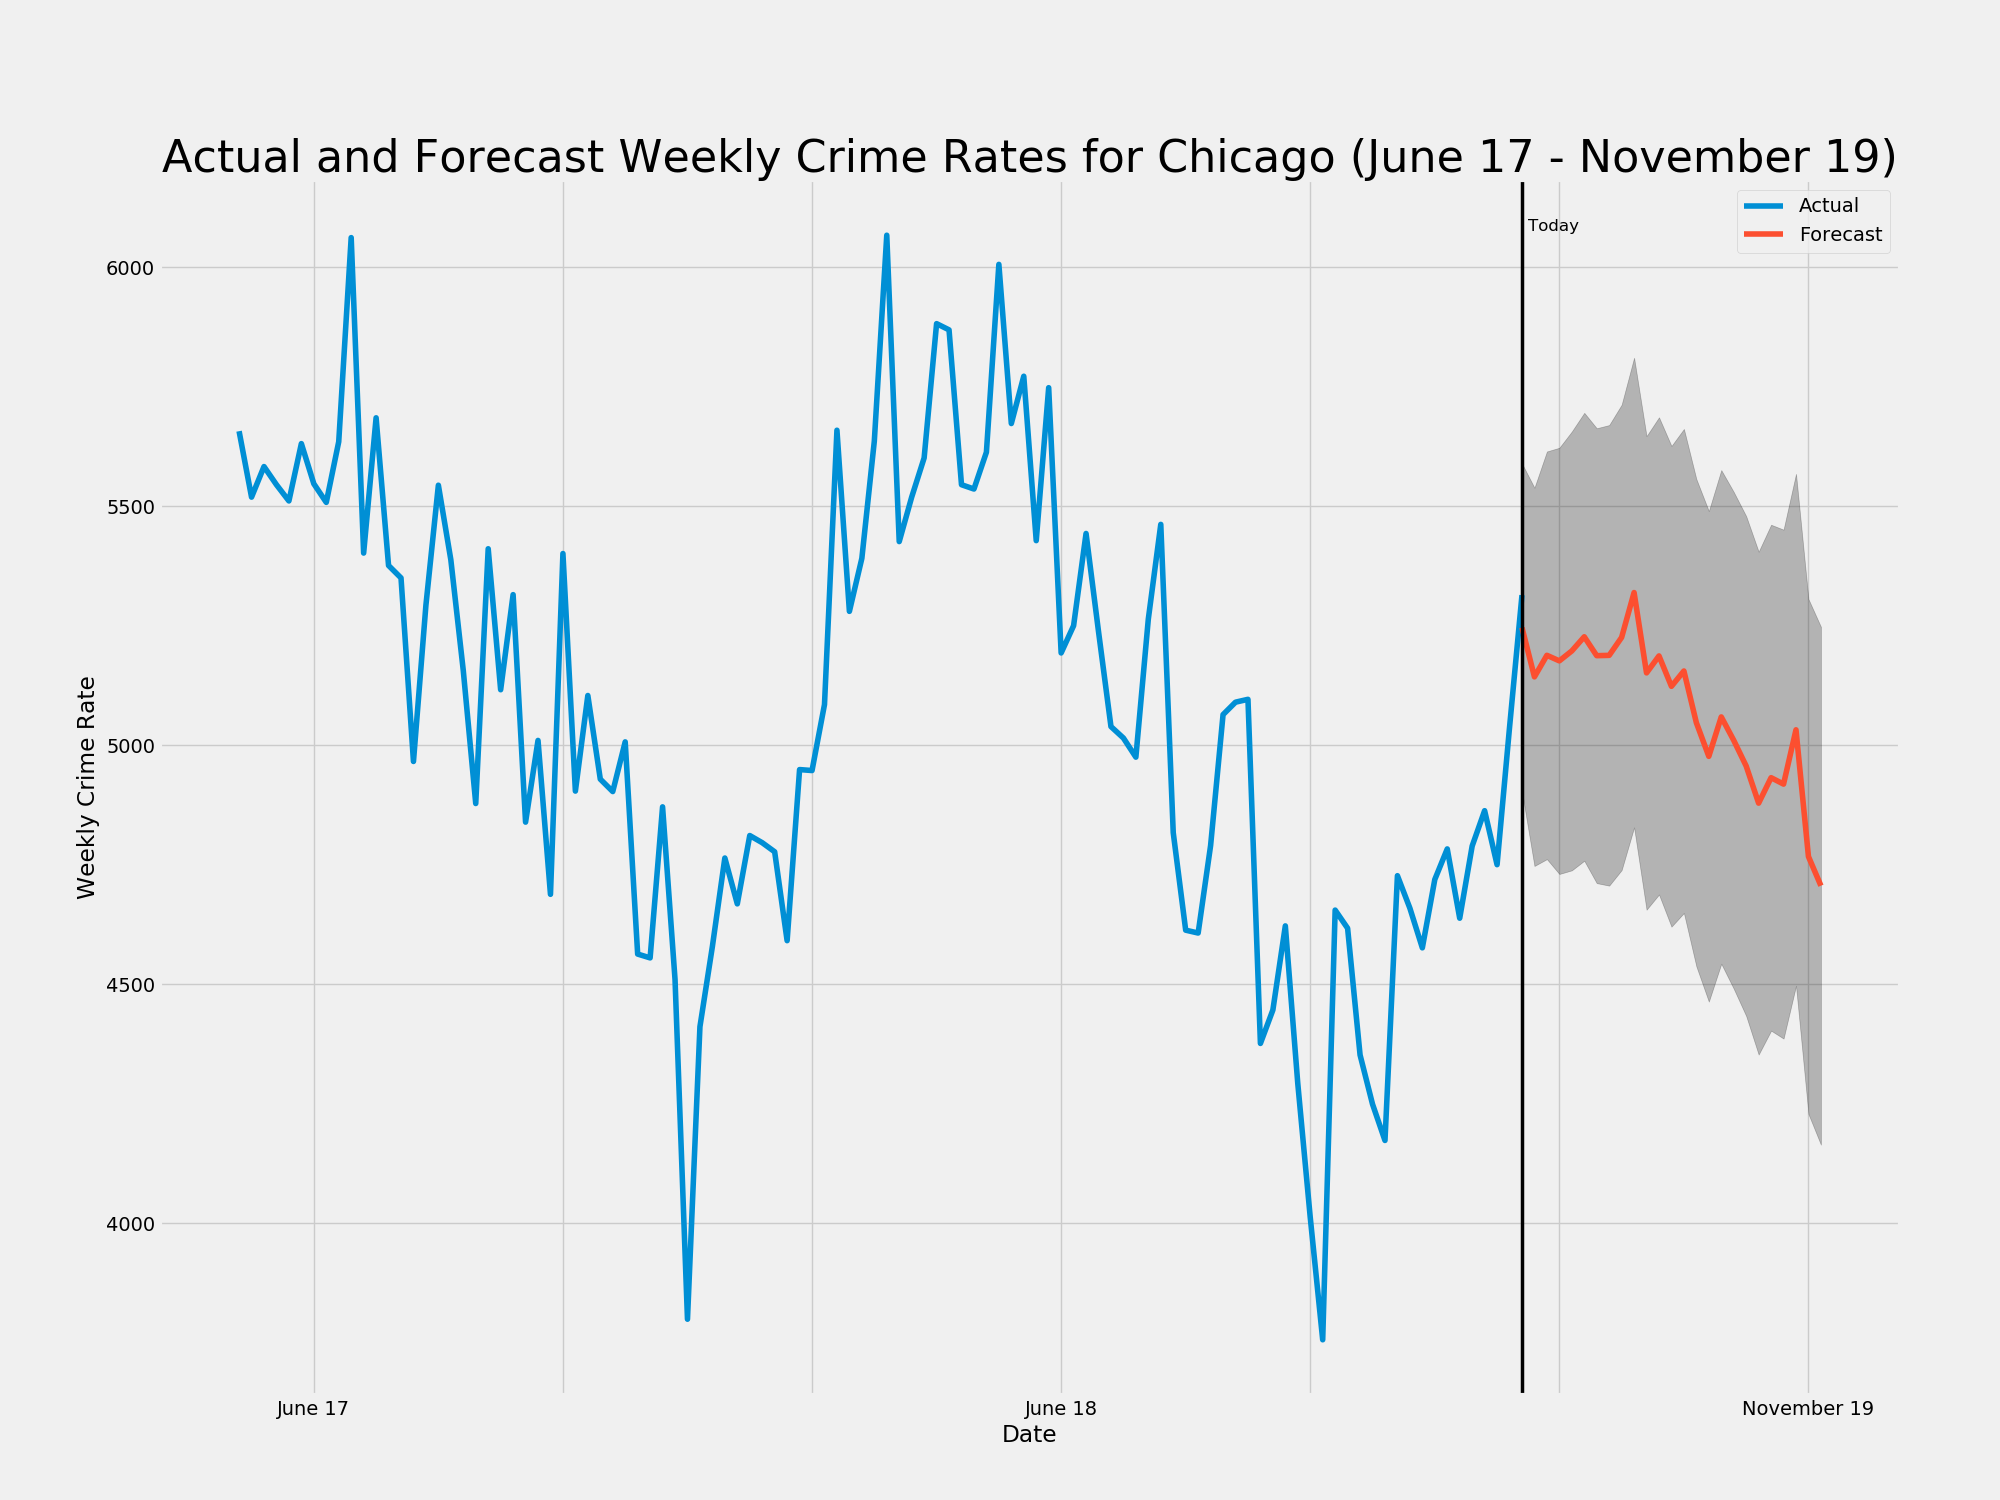
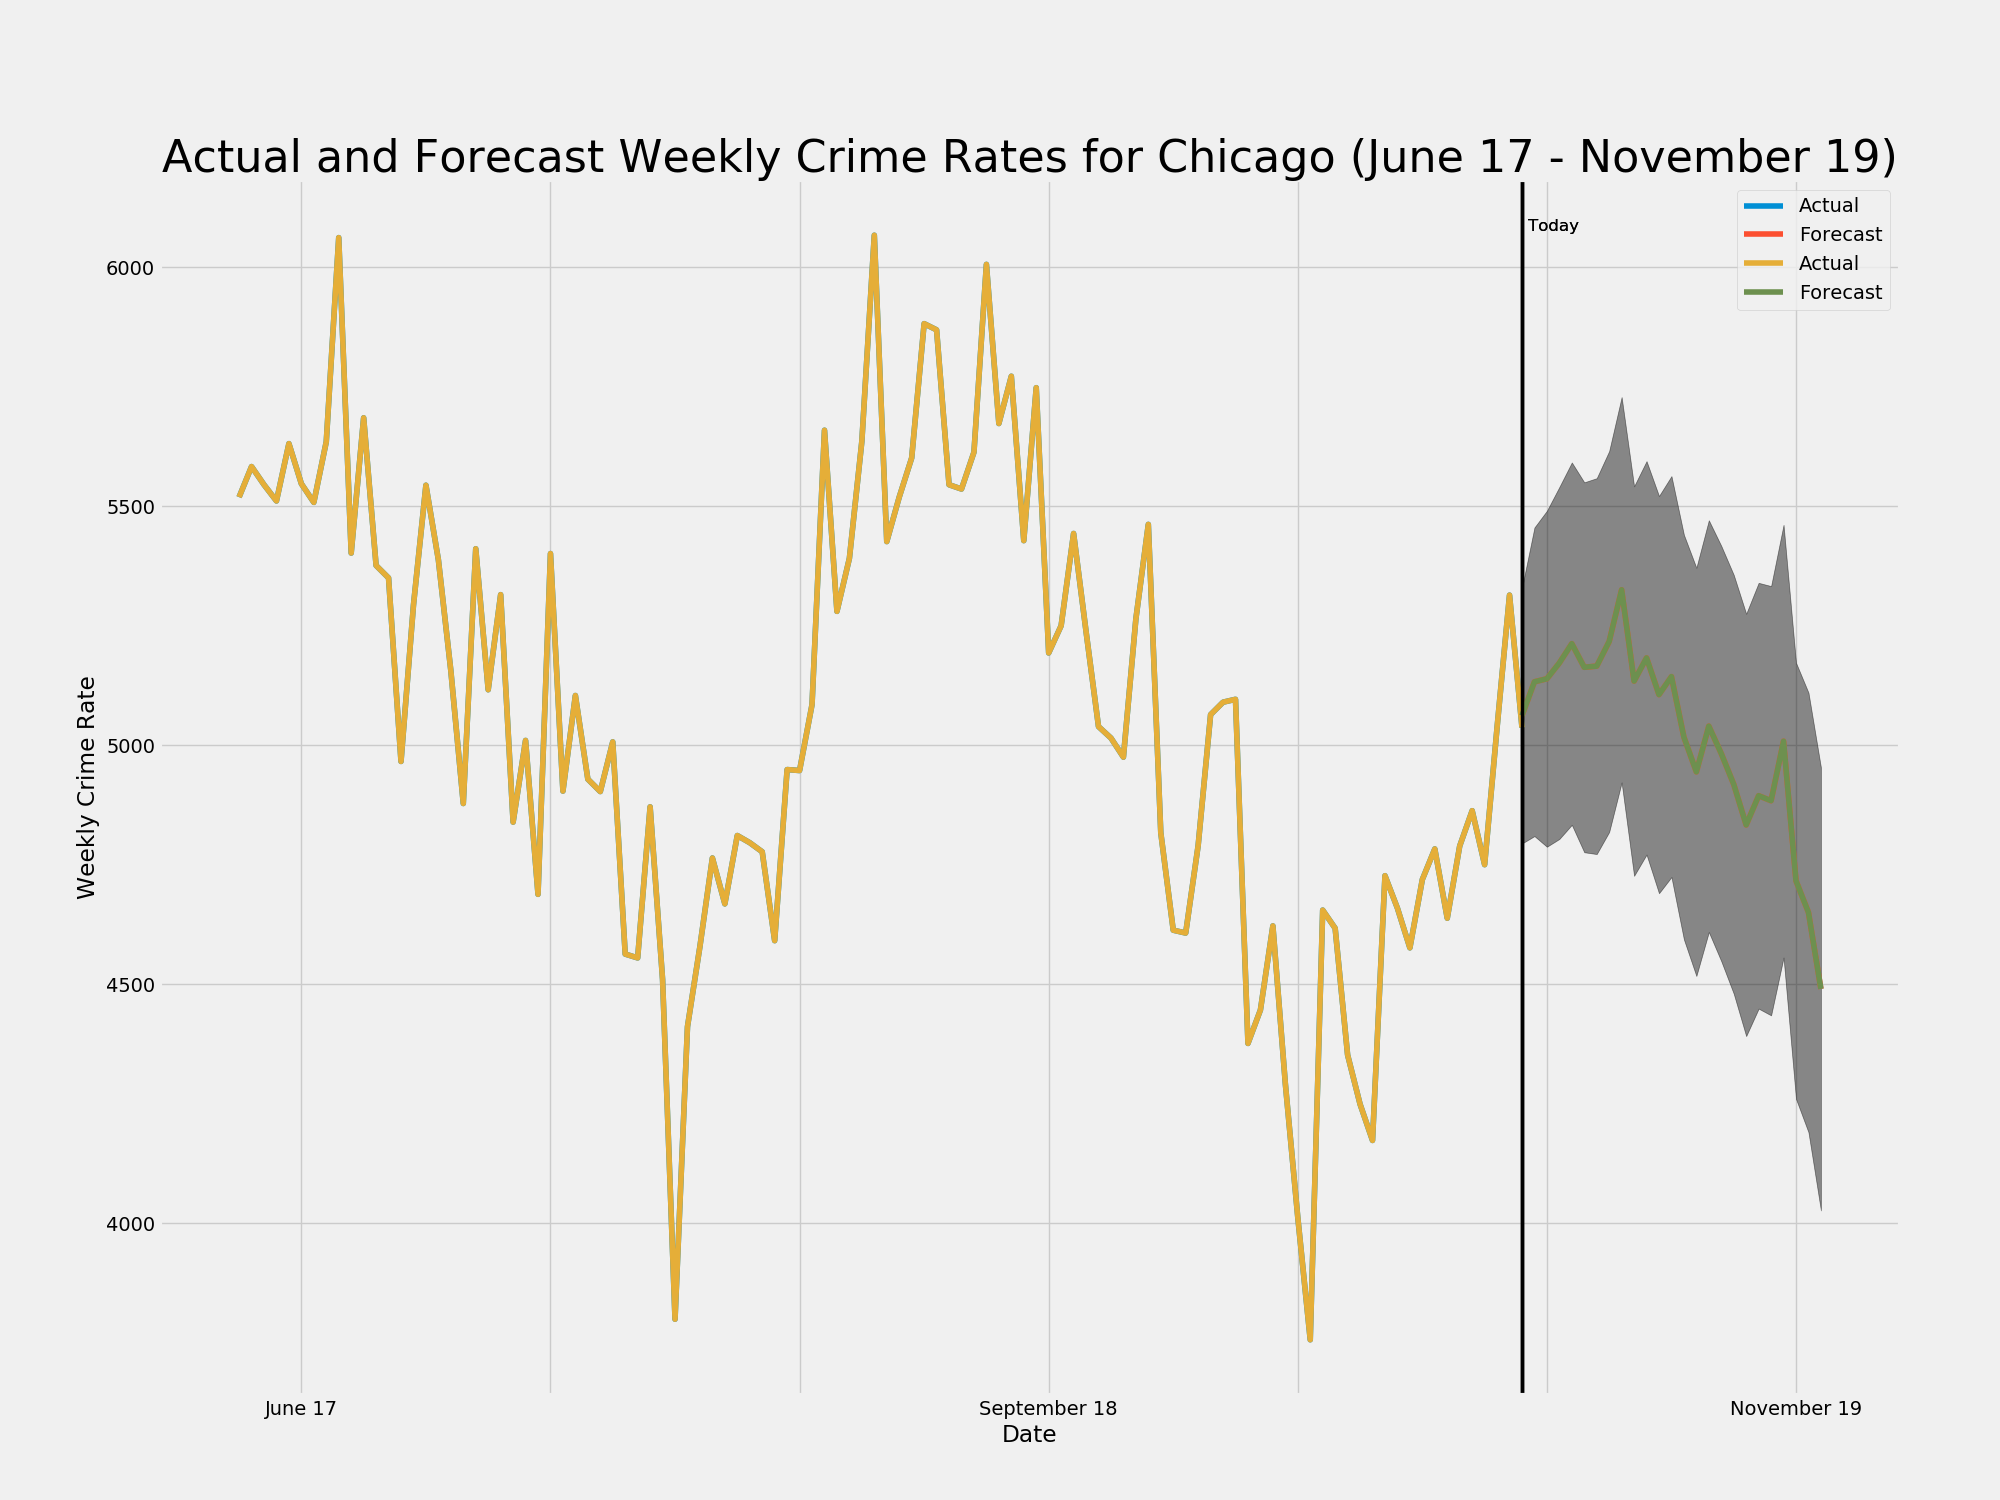
fix forecast chart date error.

diff --git a/src/model/get_predictions.py b/src/model/get_predictions.py
@@ -60,7 +60,7 @@ start_date_str = start_date.strftime("%B %y")
 end_date = datetime.today() + timedelta(weeks = 24)
 end_date_str = end_date.strftime("%B %y")
 
-mid_date = datetime.today() - timedelta(weeks = 52)
+mid_date = datetime.today() - timedelta(weeks = 40)
 mid_date_str = mid_date.strftime("%B %y")
 
 title_str = 'Actual and Forecast Weekly Crime Rates for Chicago (%s - %s)' % (start_date_str, end_date_str)
